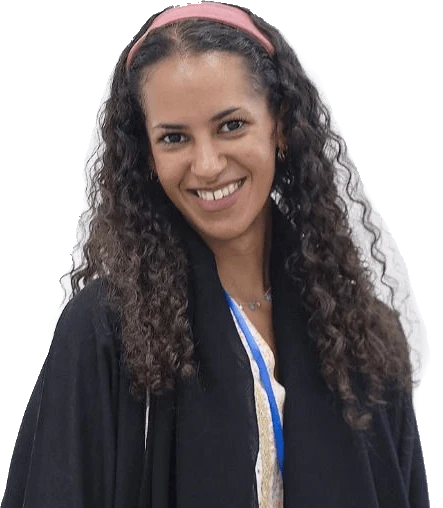
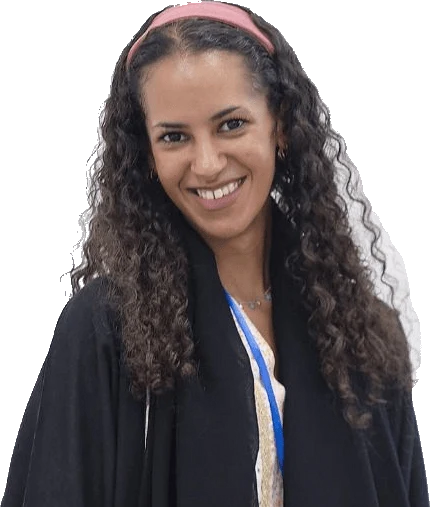
Fix member cut-out geometry for real: hard bbox crops
Salmeen's cutout carried invisible noise pixels that inflated its
bounding box (rendered small, no pop); Ghalia kept a translucent white
veil the edge-based cleanup couldn't reach. Both re-cropped from a
bounding box that ignores faint alpha, Salmeen width-centered to the
exact 500:573 standard; Ghalia's veil pixels cleared globally.
Verified via composed pixel proof of the full row.

Claude-Session: https://claude.ai/code/session_01CBgqScbhJyaaDiTg7zStd2

diff --git a/team.html b/team.html
@@ -85,12 +85,12 @@
     <div class="sec-top rv"><h2>The team</h2></div>
     <div class="tgrid four rv">
       <button class="tcard mat" type="button" data-i="3" style="--blk:#b9cbdb;--blkD:#a9bfd2">
-        <span class="box"><img src="assets/salmeen_cutout.webp?v=2" alt="Salmeen Binmahfooz"/></span>
+        <span class="box"><img src="assets/salmeen_cutout.webp?v=3?v=2" alt="Salmeen Binmahfooz"/></span>
         <span class="nm">Salmeen Binmahfooz</span>
         <span class="rl">KSA Chief of Staff</span>
       </button>
       <button class="tcard mat" type="button" data-i="4" style="--blk:#d6ad64;--blkD:#cda254">
-        <span class="box"><img src="assets/ghalia_cutout.webp?v=2" alt="Ghalia Badokhon"/></span>
+        <span class="box"><img src="assets/ghalia_cutout.webp?v=3" alt="Ghalia Badokhon"/></span>
         <span class="nm">Ghalia Badokhon</span>
         <span class="rl">Jeddah Lead</span>
       </button>
